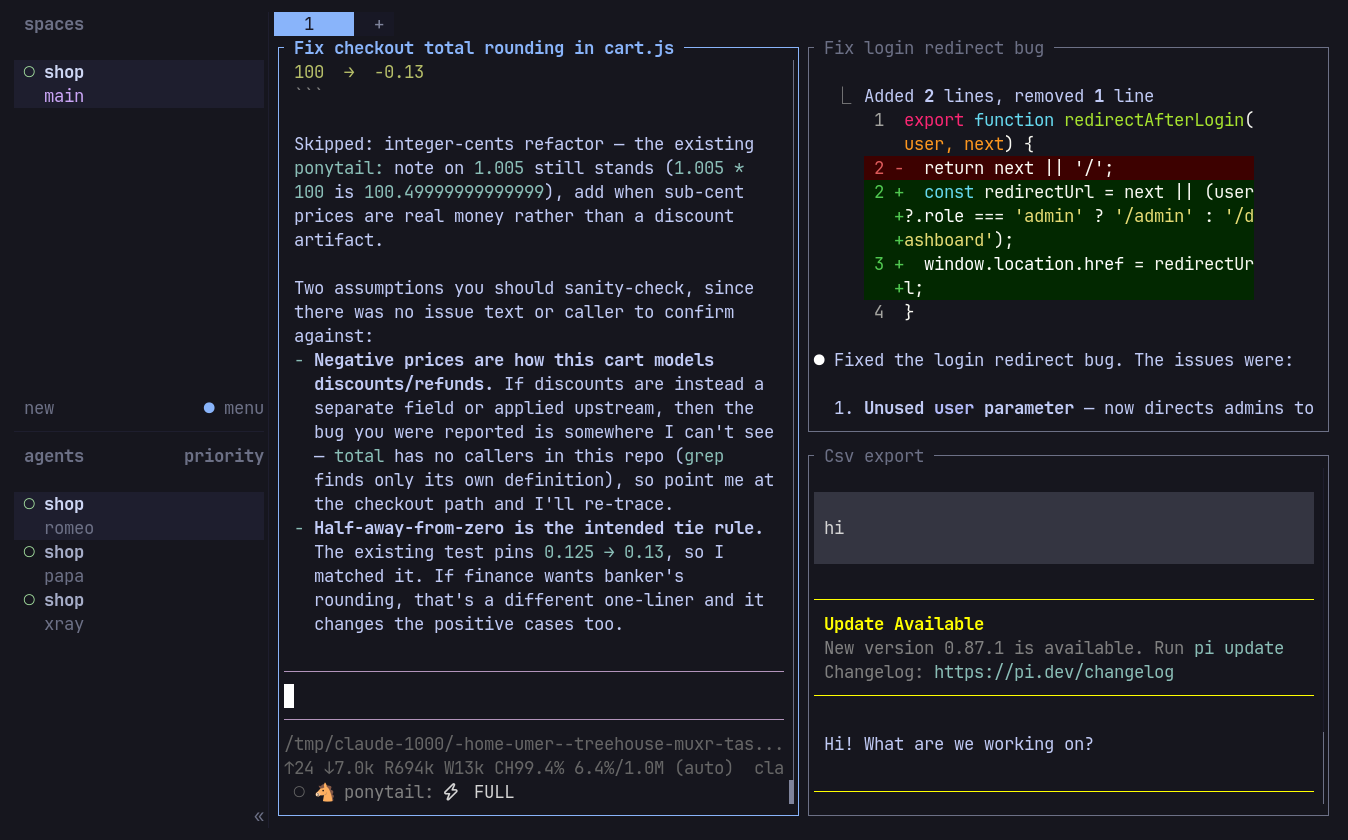
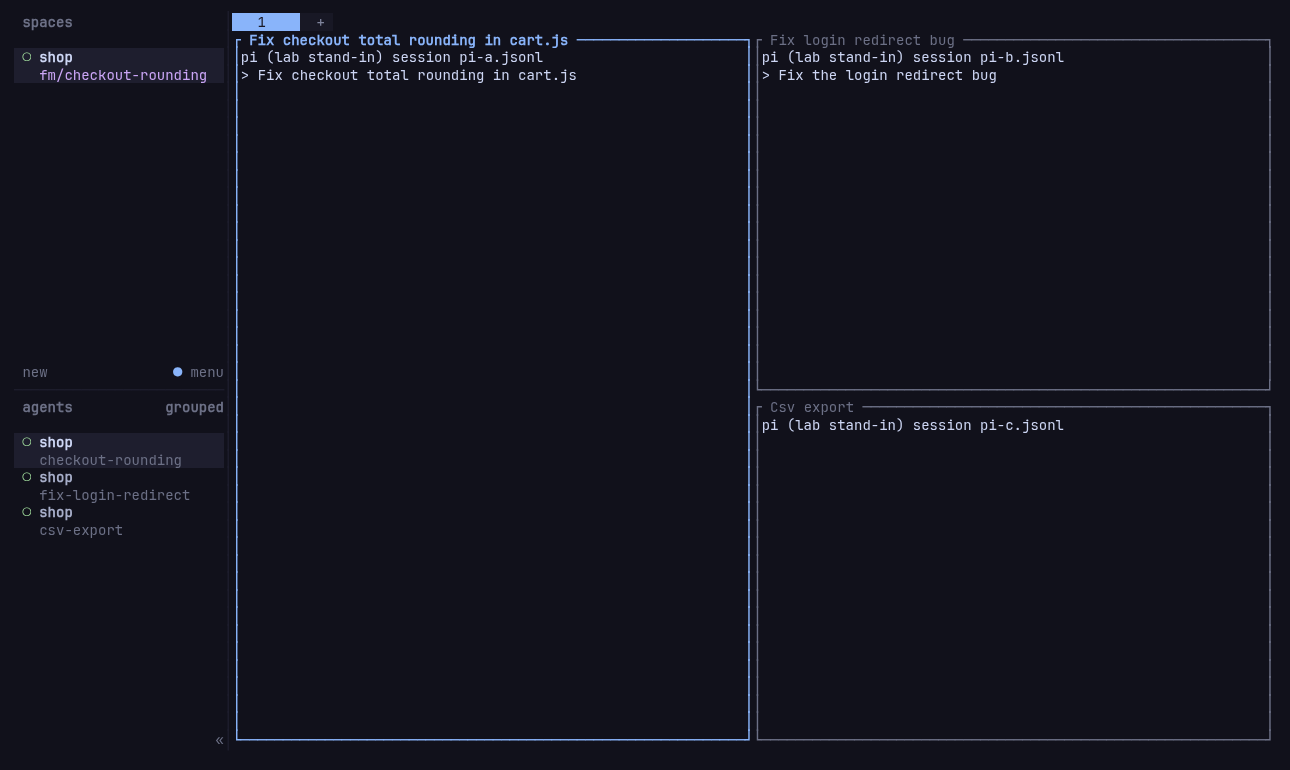
docs: refresh README screenshot with plugin-derived work names from v0.3.0

diff --git a/README.md b/README.md
@@ -15,7 +15,7 @@
 <h3 align="center"><a href="#download--install"><ins>Install</ins></a></h3>
 
 <p align="center">
-  <img src="docs/herd.png" alt="Herdr with three agents named romeo, xray and papa in the sidebar; their panes are titled Fix checkout total rounding in cart.js, Fix login redirect bug, and Csv export" width="960" />
+  <img src="docs/herd.png" alt="Herdr with three agents named checkout-rounding, fix-login-redirect and csv-export in the sidebar; their panes are titled Fix checkout total rounding in cart.js, Fix login redirect bug, and Csv export" width="960" />
 </p>
 
 ## Why it exists
